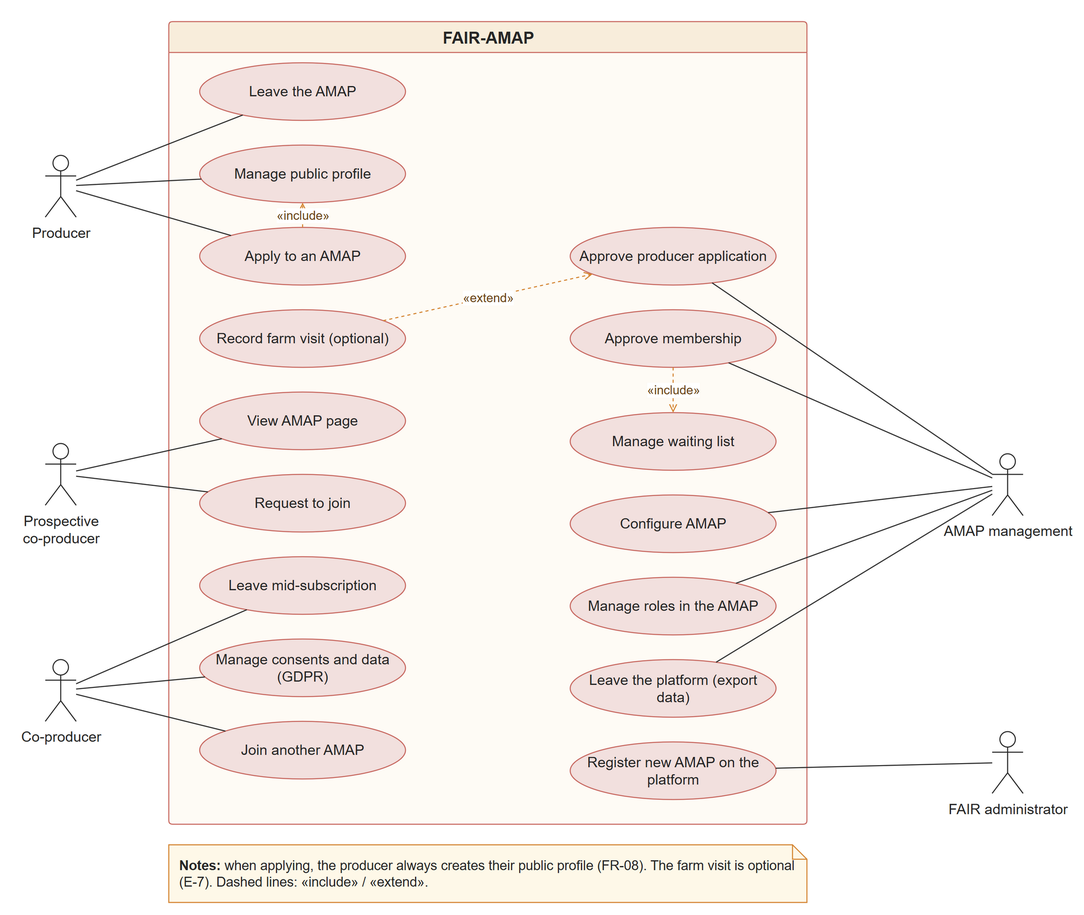
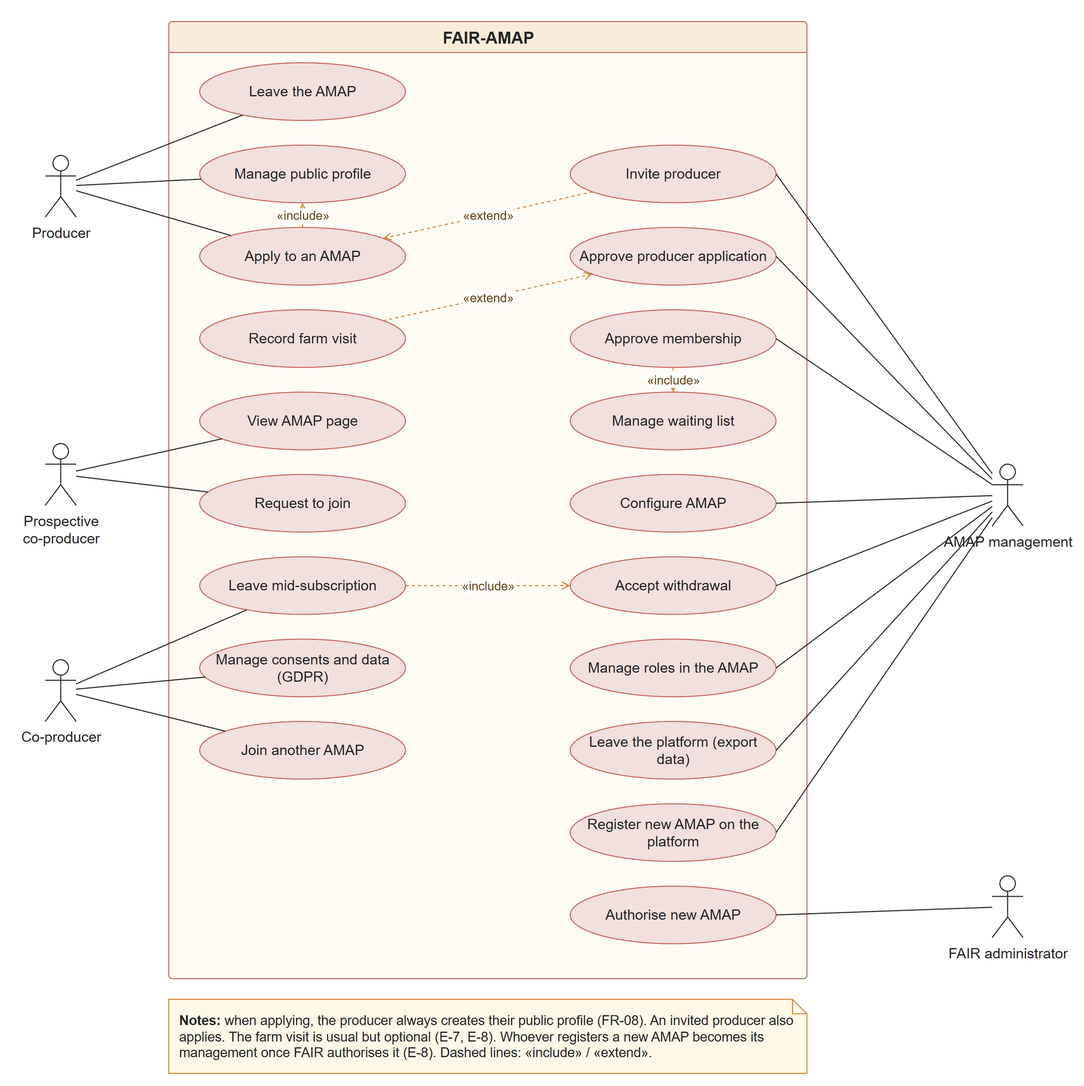
Update design and implementation constraints documentation in English and Portuguese; revise payment handling and data protection sections, and clarify AMAP principles compliance. Update status and notes for various constraints based on recent discussions and validations.

diff --git a/docs/srs/2.4_RestricoesConcecaoImplementacaoPT.md b/docs/srs/2.4_RestricoesConcecaoImplementacaoPT.md
@@ -1,6 +1,6 @@
 # 2.4 Restrições de conceção e implementação
 
-**Responsável:** Bruno Alves · **Atualizado em:** 21/10/2026 · **Estado:** rascunho para revisão
+**Responsável:** Bruno Alves · **Atualizado em:** 12/11/2026 · **Estado:** pronto para o relatório
 **Fontes:** [RNF_AtributosQualidadePT.md](../requisitos/RNF_AtributosQualidadePT.md) §7 e códigos de fonte de [requisitos/README.md](../requisitos/README.md)
 
 Esta secção descreve os fatores que **limitam as opções** de quem vai conceber e desenvolver a FAIR-AMAP: regulamentação, princípios das AMAP, modelo de negócio da FAIR, arquitetura e tecnologia. Os requisitos não funcionais que também funcionam como restrição são apenas referidos aqui; o seu detalhe está nas secções 6, 7 e 8.
@@ -10,33 +10,32 @@ Esta secção descreve os fatores que **limitam as opções** de quem vai conceb
 | ID | Restrição | Fonte | Estado |
 |---|---|---|---|
 | NFR-18 | O sistema **não emite faturas**: a faturação está **fora do âmbito**. Cada produtor continua a faturar no seu próprio programa. | E-6 (o cliente confirmou que as faturas estão fora do âmbito); Resultados técnica 2 §5, C4 | Validado |
-| NFR-19 | O sistema **não guarda diretamente o dinheiro** dos coprodutores, porque isso seria prestar um serviço de pagamento sujeito à PSD2. A cobrança é **centralizada**: o coprodutor faz um só pagamento, que é dividido pelos produtores através de um **prestador de pagamentos licenciado**, e cada produtor recebe um resumo de quem pagou e quanto. *(Opção escolhida pelo grupo em 21/10; o modelo atual, em que cada coprodutor paga diretamente a cada produtor, foi posto de parte.)* | Proposta do grupo (a partir de E-5), PSD2, E-1, E-2 §13 | Proposto |
-| — | **Proteção de dados (RGPD).** O tratamento de dados pessoais limita a conceção: autenticação e acesso por papel (NFR-04), comunicações cifradas (NFR-05), alergias e intolerâncias tratadas como **dados de saúde** com consentimento explícito (NFR-06) e nunca impressas em etiquetas (NFR-06), papéis de responsável e subcontratante (NFR-08) e prazos de conservação (NFR-08). | RGPD, D-B §3.1 | Ver secção 7 |
+| NFR-19 | O sistema **não guarda diretamente o dinheiro** dos coprodutores, porque isso seria prestar um serviço de pagamento sujeito à PSD2. A cobrança é **centralizada**: o coprodutor faz um só pagamento, que é dividido pelos produtores através de um **prestador de pagamentos licenciado**, e cada produtor recebe um resumo de quem pagou e quanto. As taxas do meio de pagamento são um **custo do produtor**, incluído nos preços ou descontado de forma transparente no que recebe. | Proposta do grupo (a partir de E-5), E-8 (aceite pelo cliente FAIR), PSD2, E-1, E-2 §13 | Validado |
+| — | **Proteção de dados (RGPD).** O tratamento de dados pessoais limita a conceção: autenticação e acesso por papel (NFR-04), comunicações cifradas (NFR-05), alergias e intolerâncias tratadas como **dados de saúde**, com consentimento explícito e nunca impressas em etiquetas (NFR-06), papéis de responsável e subcontratante e prazos de conservação (NFR-08). | RGPD, D-B §3.1 | Ver secção 7 |
 
 ## 2.4.2 Princípios das AMAP e modelo de negócio
 
 | ID | Restrição | Fonte | Estado |
 |---|---|---|---|
-| NFR-20 | A solução respeita a **Carta de Princípios das AMAP**: é uma ferramenta de organização e **não pode atuar como intermediário comercial** entre produtor e coprodutor. O contacto direto entre ambos mantém-se sempre visível. | D-E (Carta de Princípios: "sem intervenção de agentes intermediários"), D-C §4.1, E-2, E-3 §5, CA; "ferramenta de organização" é interpretação do grupo (técnica 2, resultados §5); princípio 2 do brainstorm de 14/10 | A validar (C6) |
-| NFR-21 | A FAIR cobra uma **fee mínima por produtor** mais uma **percentagem sobre o volume de pagamentos** que passa pela plataforma. Os valores são definidos pela FAIR. | Proposta do grupo (a partir de E-1, E-5) | Proposto |
+| NFR-20 | A solução respeita a **Carta de Princípios das AMAP**: é uma ferramenta de organização e **não pode atuar como intermediário comercial** entre produtor e coprodutor. O contacto direto entre ambos mantém-se sempre visível. | D-E (Carta de Princípios: "sem intervenção de agentes intermediários"), D-C §4.1, E-2, E-3 §5, CA; "ferramenta de organização" é interpretação do grupo (técnica 2, resultados §5); princípio 2 do brainstorm de 14/10 | Proposto (decisão do grupo) |
+| NFR-21 | A FAIR cobra uma **fee mínima por AMAP** mais uma **percentagem sobre o valor das transações** (pagamentos aos produtores) que passam pela plataforma. Os valores são definidos e configurados pela FAIR. Na **experiência piloto em Portugal**, a plataforma é quase gratuita. | E-8; E-1, E-5 | Validado (E-8) |
 
-> **Nota (NFR-21):** o modelo segue a sugestão do cliente FAIR (fee mínima que cresce com o volume, E-1) e a cobrança centralizada (NFR-19, E-5). Só é viável com **escala** (muitas AMAP na mesma plataforma, NFR-22, NFR-13). A análise de concorrência e a Carta de Princípios (CA, D-E) preferiam um modelo sem comissão por transação; o grupo optou pelo volume, porque a FAIR não compra nem revende produtos e o preço continua a ser definido pelo produtor.
+> **Nota (NFR-21):** o modelo só é viável com **escala** (muitas AMAP na mesma plataforma, NFR-22, NFR-13), e é por isso que o piloto em Portugal é quase gratuito e serve para recolher feedback (E-8). A análise de concorrência e a Carta de Princípios (CA, D-E) preferiam um modelo sem comissão por transação; o modelo é aceitável porque a FAIR não compra nem revende produtos e o preço continua a ser definido pelo produtor.
 
-**Decisão de âmbito C6 (resumo):** a proposta inicial era uma **ferramenta de organização** que **não recebe dinheiro nem emite faturas** (NFR-18, 02, 03). Depois da indicação do professor sobre a **cobrança centralizada** (E-5), o grupo optou (21/10) por **centralizar a cobrança através de um prestador licenciado** (NFR-19; NFR-17). O sistema continua a **não emitir faturas** e a **não guardar o dinheiro**. Falta o cliente confirmar e verificar a compatibilidade com a Carta de Princípios (NFR-20). Os requisitos afetados estão marcados "A validar (C6)".
+**Decisão de âmbito C6 (resumo):** a proposta inicial era uma **ferramenta de organização** que **não recebe dinheiro nem emite faturas** (NFR-18). Depois da indicação do professor sobre a **cobrança centralizada** (E-5), o grupo propôs (21/10) **centralizar a cobrança através de um prestador licenciado** (NFR-17, NFR-19), e o cliente FAIR **aceitou** na entrevista de 10/11 (E-8). O sistema continua a **não emitir faturas** e a **não guardar o dinheiro**. A compatibilidade com a Carta de Princípios (NFR-20) não foi discutida com o cliente; o grupo considera-a compatível, porque o sistema só faz chegar o pagamento ao produtor, que é quem define o preço.
 
 ## 2.4.3 Arquitetura e tecnologia
 
 | ID | Restrição | Fonte | Estado |
 |---|---|---|---|
-| NFR-22 | A solução é uma **plataforma partilhada por várias AMAP** (multi-AMAP), com os dados de cada AMAP separados. Uma pessoa pode ser membro de mais do que uma AMAP. | CA, E-2 §1, FR-07 | Proposto |
-| NFR-23 *(novo)* | A solução tem de ser **mantida pela FAIR** ao longo do tempo (correções, atualizações de segurança e evolução). O cliente referiu que os softwares feitos por amadores para CSA deixam de ser mantidos. | E-1 (sessão de 23/09) | Proposto |
-| NFR-24 *(novo)* | As diferenças **entre AMAP e entre produtores da mesma AMAP** (duração do ciclo, datas e modo de entrega, prazos de alteração, momento do pagamento, regras de ausência) são tratadas por **configuração**, sem desenvolvimento específico para cada AMAP ou produtor. | Princípio 1 do brainstorm de 14/10, E-2 §1, §11, E-3 §2–§4, §8 | Proposto |
+| NFR-22 | A solução é uma **plataforma partilhada por várias AMAP** (multi-AMAP), com os dados de cada AMAP separados. Uma pessoa, incluindo um produtor, pode ser membro de mais do que uma AMAP. | CA, E-2 §1, E-8, FR-07 | Validado (E-8) |
+| NFR-23 | A solução tem de ser **mantida pela FAIR** ao longo do tempo (correções, atualizações de segurança e evolução). O cliente referiu que os softwares feitos por amadores para CSA deixam de ser mantidos. | E-1 (sessão de 23/09) | Proposto |
+| NFR-24 | As diferenças **entre AMAP e entre produtores da mesma AMAP** (duração do ciclo, datas e modo de entrega, prazos de alteração, momento do pagamento, regras de ausência, capacidade, regras de desistência) são tratadas por **configuração**, sem desenvolvimento específico para cada AMAP ou produtor. | Princípio 1 do brainstorm de 14/10, E-2 §1, §11, E-3 §2–§4, §8, E-8 ("cada AMAP funciona com as suas próprias regras") | Validado (E-8) |
 | — | **Aplicação web** adaptável a telemóvel e computador, **sem instalação obrigatória**; pode ser instalada no ecrã inicial como **PWA**, sem passar pelas lojas de aplicações, e a própria aplicação explica como (NFR-01). Notificações **push** além do email (NFR-15). | E-3, decisão do grupo de 21/10 | Ver secções 6 e 7 |
-| — | **Língua:** interface em **português europeu**, preparada para outras línguas; euros com IVA, datas dd/mm/aaaa, fuso horário de Portugal (NFR-13, 02). | CA, D-A | Ver secção 8 |
-| — | **Interfaces obrigatórias:** notificações por **email** (NFR-15) e **push** no telemóvel (NFR-15), e exportação para folha de cálculo (NFR-16), para quem hoje usa Excel. | D-A, E-2 §2, decisão do grupo de 21/10 | Ver secção 6 |
+| — | **Língua:** interface em **português europeu**, preparada para outras línguas; euros com IVA, datas dd/mm/aaaa, fuso horário de Portugal (NFR-13, NFR-14). | CA, D-A | Ver secção 8 |
+| — | **Interfaces obrigatórias:** notificações por **email** e **push** no telemóvel (NFR-15), e exportação para folha de cálculo (NFR-16), para quem hoje usa Excel. | D-A, E-2 §2, decisão do grupo de 21/10 | Ver secção 6 |
 
 ## 2.4.4 Pontos em aberto
-- **C6:** o cliente confirma a cobrança centralizada através de um prestador licenciado? É compatível com a Carta de Princípios das AMAP? (afeta NFR-18, 02, 03, NFR-17 e RF05)
-- **E-5** foi ouvido numa conversa do professor com outro grupo e não foi gravado: confirmar diretamente com o professor.
-- **DV-25:** confirmar com a FAIR os valores da fee mínima e da percentagem (afeta NFR-21).
-- **NFR-23** e **NFR-24** são novos (21/10) e já estão na tabela de [RNF](../requisitos/RNF_AtributosQualidadePT.md) §7; falta o grupo concordar.
+- **Valores da fee (DV-25):** o modelo está validado, mas a FAIR não indicou a fee mínima nem a percentagem. O sistema permite à FAIR configurá-los (FR-34).
+- **Carta de Princípios (NFR-20):** a compatibilidade com a cobrança centralizada continua a ser uma decisão do grupo (ver C6 acima).
+- **NFR-23** baseia-se só na sessão de 23/09 e não voltou a ser discutido com o cliente.

diff --git a/docs/srs/2.4_RestricoesConcecaoImplementacaoEN.md b/docs/srs/2.4_RestricoesConcecaoImplementacaoEN.md
@@ -1,6 +1,6 @@
 # 2.4 Design and implementation constraints
 
-**Owner:** Bruno Alves · **Updated on:** 21/10/2026 · **Status:** draft for review
+**Owner:** Bruno Alves · **Updated on:** 12/11/2026 · **Status:** ready for the report
 **Sources:** [RNF_AtributosQualidadeEN.md](../requisitos/RNF_AtributosQualidadeEN.md) §7 and source codes in [requisitos/README.md](../requisitos/README.md)
 
 This section describes the factors that **limit the options** of whoever designs and develops FAIR-AMAP: regulation, AMAP principles, FAIR's business model, architecture and technology. Non-functional requirements that also act as constraints are only referenced here; their detail is in sections 6, 7 and 8.
@@ -10,33 +10,32 @@ This section describes the factors that **limit the options** of whoever designs
 | ID | Constraint | Source | Status |
 |---|---|---|---|
 | NFR-18 | The system **does not issue invoices**: invoicing is **out of scope**. Each producer keeps invoicing in their own software. | E-6 (the client confirmed invoices are out of scope); Technique 2 results §5, C4 | Validated |
-| NFR-19 | The system **does not hold co-producers' money directly**, because that would be a payment service subject to PSD2. Collection is **centralised**: the co-producer makes a single payment, which is split among producers through a **licensed payment provider**, and each producer receives a summary of who paid and how much. *(Option chosen by the group on 21/10; the current model, where each co-producer pays each producer directly, was set aside.)* | Group proposal (based on E-5), PSD2, E-1, E-2 §13 | Proposed |
-| — | **Data protection (GDPR).** Processing personal data constrains the design: authentication and role-based access (NFR-04), encrypted communications (NFR-05), allergies and intolerances treated as **health data** with explicit consent (NFR-06) and never printed on labels (NFR-06), controller and processor roles (NFR-08) and retention periods (NFR-08). | GDPR, D-B §3.1 | See section 7 |
+| NFR-19 | The system **does not hold co-producers' money directly**, because that would be a payment service subject to PSD2. Collection is **centralised**: the co-producer makes a single payment, which is split among producers through a **licensed payment provider**, and each producer receives a summary of who paid and how much. Payment method fees are a **producer cost**, reflected in their prices or deducted transparently from what they receive. | Group proposal (based on E-5), E-8 (accepted by the FAIR client), PSD2, E-1, E-2 §13 | Validated |
+| — | **Data protection (GDPR).** Processing personal data constrains the design: authentication and role-based access (NFR-04), encrypted communications (NFR-05), allergies and intolerances treated as **health data** with explicit consent and never printed on labels (NFR-06), controller and processor roles and retention periods (NFR-08). | GDPR, D-B §3.1 | See section 7 |
 
 ## 2.4.2 AMAP principles and business model
 
 | ID | Constraint | Source | Status |
 |---|---|---|---|
-| NFR-20 | The solution respects the **AMAP Charter of Principles**: it is an organisation tool and **must not act as a commercial intermediary** between producer and co-producer. Direct contact between them always remains visible. | D-E (Charter of Principles: "without intervention of intermediary agents"), D-C §4.1, E-2, E-3 §5, CA; "organisation tool" is the group's interpretation (technique 2, results §5); principle 2 of the 14/10 brainstorm | To validate (C6) |
-| NFR-21 | FAIR charges a **minimum fee per producer** plus a **percentage of the payment volume** that goes through the platform. The amounts are set by FAIR. | Group proposal (based on E-1, E-5) | Proposed |
+| NFR-20 | The solution respects the **AMAP Charter of Principles**: it is an organisation tool and **must not act as a commercial intermediary** between producer and co-producer. Direct contact between them always remains visible. | D-E (Charter of Principles: "without intervention of intermediary agents"), D-C §4.1, E-2, E-3 §5, CA; "organisation tool" is the group's interpretation (technique 2, results §5); principle 2 of the 14/10 brainstorm | Proposed (group decision) |
+| NFR-21 | FAIR charges a **minimum fee per AMAP** plus a **percentage of the value of the transactions** (payments to producers) that go through the platform. The amounts are set and configured by FAIR. During the **pilot in Portugal**, the platform is almost free. | E-8; E-1, E-5 | Validated (E-8) |
 
-> **Note (NFR-21):** the model follows the FAIR client's suggestion (minimum fee that grows with volume, E-1) and centralised collection (NFR-19, E-5). It is only viable at **scale** (many AMAPs on the same platform, NFR-22, NFR-13). The competitor analysis and the Charter of Principles (CA, D-E) favoured a model without a per-transaction commission; the group chose volume because FAIR neither buys nor resells products and the price is still set by the producer.
+> **Note (NFR-21):** the model is only viable at **scale** (many AMAPs on the same platform, NFR-22, NFR-13), which is why the pilot in Portugal is almost free and aims to collect feedback (E-8). The competitor analysis and the Charter of Principles (CA, D-E) favoured a model without a per-transaction commission; this is acceptable because FAIR neither buys nor resells products and the price is still set by the producer.
 
-**Scope decision C6 (summary):** the initial proposal was an **organisation tool** that **neither handles money nor issues invoices** (NFR-18, 02, 03). After the lecturer's remark about **centralised collection** (E-5), the group chose (21/10) to **centralise collection through a licensed provider** (NFR-19; NFR-17). The system still **does not issue invoices** and **does not hold the money**. The client still has to confirm, and compatibility with the Charter of Principles (NFR-20) must be checked. Affected requirements are marked "To validate (C6)".
+**Scope decision C6 (summary):** the initial proposal was an **organisation tool** that **neither handles money nor issues invoices** (NFR-18). After the lecturer's remark about **centralised collection** (E-5), the group proposed (21/10) to **centralise collection through a licensed provider** (NFR-17, NFR-19), and the FAIR client **accepted** it in the interview of 10/11 (E-8). The system still **does not issue invoices** and **does not hold the money**. Compatibility with the Charter of Principles (NFR-20) was not discussed with the client; the group considers it compatible because the system only passes the payment on to the producer, who sets the price.
 
 ## 2.4.3 Architecture and technology
 
 | ID | Constraint | Source | Status |
 |---|---|---|---|
-| NFR-22 | The solution is a **platform shared by several AMAPs** (multi-AMAP), with each AMAP's data kept separate. A person may be a member of more than one AMAP. | CA, E-2 §1, FR-07 | Proposed |
-| NFR-23 *(new)* | The solution must be **maintained by FAIR** over time (fixes, security updates and evolution). The client mentioned that software built by amateurs for CSAs stops being maintained. | E-1 (23/09 session) | Proposed |
-| NFR-24 *(new)* | Differences **between AMAPs and between producers in the same AMAP** (cycle length, delivery dates and mode, change deadlines, payment timing, absence rules) are handled through **configuration**, without specific development for each AMAP or producer. | Principle 1 of the 14/10 brainstorm, E-2 §1, §11, E-3 §2–§4, §8 | Proposed |
+| NFR-22 | The solution is a **platform shared by several AMAPs** (multi-AMAP), with each AMAP's data kept separate. A person, including a producer, may be a member of more than one AMAP. | CA, E-2 §1, E-8, FR-07 | Validated (E-8) |
+| NFR-23 | The solution must be **maintained by FAIR** over time (fixes, security updates and evolution). The client mentioned that software built by amateurs for CSAs stops being maintained. | E-1 (23/09 session) | Proposed |
+| NFR-24 | Differences **between AMAPs and between producers in the same AMAP** (cycle length, delivery dates and mode, change deadlines, payment timing, absence rules, capacity, withdrawal rules) are handled through **configuration**, without specific development for each AMAP or producer. | Principle 1 of the 14/10 brainstorm, E-2 §1, §11, E-3 §2–§4, §8, E-8 ("each AMAP works with its own rules") | Validated (E-8) |
 | — | **Web application** for mobile and desktop, **with no mandatory installation**; it can be installed on the home screen as a **PWA**, without going through app stores, and the app itself explains how (NFR-01). **Push** notifications in addition to email (NFR-15). | E-3, group decision of 21/10 | See sections 6 and 7 |
-| — | **Language:** interface in **European Portuguese**, ready for other languages; euros with VAT, dd/mm/yyyy dates, Portuguese time zone (NFR-13, 02). | CA, D-A | See section 8 |
-| — | **Mandatory interfaces:** **email** (NFR-15) and phone **push** notifications (NFR-15), and spreadsheet export (NFR-16) for those who use Excel today. | D-A, E-2 §2, group decision of 21/10 | See section 6 |
+| — | **Language:** interface in **European Portuguese**, ready for other languages; euros with VAT, dd/mm/yyyy dates, Portuguese time zone (NFR-13, NFR-14). | CA, D-A | See section 8 |
+| — | **Mandatory interfaces:** **email** and phone **push** notifications (NFR-15), and spreadsheet export (NFR-16) for those who use Excel today. | D-A, E-2 §2, group decision of 21/10 | See section 6 |
 
 ## 2.4.4 Open points
-- **C6:** does the client confirm centralised collection through a licensed provider? Is it compatible with the AMAP Charter of Principles? (affects NFR-18, 02, 03, NFR-17 and RF05)
-- **E-5** was overheard in a conversation between the lecturer and another group and was not recorded: confirm directly with the lecturer.
-- **DV-25:** confirm with FAIR the minimum fee and percentage amounts (affects NFR-21).
-- **NFR-23** and **NFR-24** are new (21/10) and already in the [NFR](../requisitos/RNF_AtributosQualidadeEN.md) table §7; the group still has to agree.
+- **Fee amounts (DV-25):** the model is validated, but FAIR did not state the minimum fee or the percentage. The system lets FAIR configure them (FR-34).
+- **Charter of Principles (NFR-20):** compatibility with centralised collection remains a group decision (see C6 above).
+- **NFR-23** is based only on the 23/09 session and was not discussed again with the client.

diff --git a/docs/requisitos/RNF_AtributosQualidadePT.md b/docs/requisitos/RNF_AtributosQualidadePT.md
@@ -52,9 +52,9 @@ Os requisitos não funcionais têm de ser **específicos e verificáveis** (temp
 | NFR-19 | O sistema não deve guardar diretamente o dinheiro dos coprodutores (PSD2). A cobrança é centralizada: o coprodutor faz um só pagamento, dividido pelos produtores através de um prestador de pagamentos licenciado (opção do grupo em 21/10, aceite pela FAIR em 10/11). | M | Proposta do grupo (a partir de E-5), E-8, PSD2, E-1, E-2 §13 | Validado (E-8) |
 | NFR-20 | A solução deve respeitar a Carta de Princípios das AMAP: não pode atuar como intermediário comercial entre produtor e coprodutor. | M | D-E (Carta de Princípios), D-C §4.1, E-2, E-3 §5, CA; interpretação do grupo (técnica 2, resultados §5) | A validar (C6) |
 | NFR-21 | A FAIR cobra uma fee mínima por AMAP mais uma percentagem sobre o valor das transações que passam pela plataforma; os valores são definidos pela FAIR e, na experiência piloto em Portugal, a plataforma é quase gratuita. | S | E-8; proposta do grupo (a partir de E-1 §4, E-5); CA e D-E preferiam sem comissão | Validado (E-8) |
-| NFR-22 | A solução deve ser uma plataforma partilhada por várias AMAP (multi-AMAP), com os dados de cada AMAP separados. | M | CA ("instância comum para as AMAP portuguesas"), E-2 §1 | Proposto |
+| NFR-22 | A solução deve ser uma plataforma partilhada por várias AMAP (multi-AMAP), com os dados de cada AMAP separados. | M | CA ("instância comum para as AMAP portuguesas"), E-2 §1, E-8 | Validado (E-8) |
 | NFR-23 | A solução deve ser mantida pela FAIR ao longo do tempo (correções, atualizações de segurança e evolução). | S | E-1 (softwares de amadores deixam de ser mantidos) | Proposto |
-| NFR-24 | As diferenças entre AMAP e entre produtores da mesma AMAP (duração do ciclo, datas e modo de entrega, prazos de alteração, momento do pagamento, regras de ausência) devem ser tratadas por configuração, sem desenvolvimento específico para cada AMAP ou produtor. | M | Princípio 1 do brainstorm de 14/10, E-2 §1, §11, E-3 §2–§4, §8 | Proposto |
+| NFR-24 | As diferenças entre AMAP e entre produtores da mesma AMAP (duração do ciclo, datas e modo de entrega, prazos de alteração, momento do pagamento, regras de ausência) devem ser tratadas por configuração, sem desenvolvimento específico para cada AMAP ou produtor. | M | Princípio 1 do brainstorm de 14/10, E-2 §1, §11, E-3 §2–§4, §8, E-8 | Validado (E-8) |
 
 ## Correspondência com a versão anterior
 Na revisão de 28/10, os 32 requisitos anteriores foram reduzidos a 22, juntando os que medem a mesma coisa (indicação do professor de reduzir o detalhe).

diff --git a/docs/requisitos/RNF_AtributosQualidadeEN.md b/docs/requisitos/RNF_AtributosQualidadeEN.md
@@ -52,9 +52,9 @@ Non-functional requirements must be **specific and verifiable** (SRS template). 
 | NFR-19 | The system shall not hold co-producers' money directly (PSD2). Collection is centralised: the co-producer makes a single payment, split among producers through a licensed payment provider (group option on 21/10, accepted by FAIR on 10/11). | M | Group proposal (based on E-5), E-8, PSD2, E-1, E-2 §13 | Validated (E-8) |
 | NFR-20 | The solution shall respect the AMAP Charter of Principles: it must not act as a commercial intermediary between producer and co-producer. | M | D-E (Charter of Principles), D-C §4.1, E-2, E-3 §5, CA; group interpretation (technique 2, results §5) | To validate (C6) |
 | NFR-21 | FAIR charges a minimum fee per AMAP plus a percentage of the value of the transactions that go through the platform; the amounts are set by FAIR and, during the pilot in Portugal, the platform is almost free. | S | E-8; group proposal (based on E-1 §4, E-5); CA and D-E favoured no commission | Validated (E-8) |
-| NFR-22 | The solution shall be a platform shared by several AMAPs (multi-AMAP), with each AMAP's data kept separate. | M | CA ("one shared instance for Portuguese AMAPs"), E-2 §1 | Proposed |
+| NFR-22 | The solution shall be a platform shared by several AMAPs (multi-AMAP), with each AMAP's data kept separate. | M | CA ("one shared instance for Portuguese AMAPs"), E-2 §1, E-8 | Validated (E-8) |
 | NFR-23 | The solution shall be maintained by FAIR over time (fixes, security updates and evolution). | S | E-1 (software built by amateurs stops being maintained) | Proposed |
-| NFR-24 | Differences between AMAPs and between producers in the same AMAP (cycle length, delivery dates and mode, change deadlines, payment timing, absence rules) shall be handled through configuration, without specific development for each AMAP or producer. | M | Principle 1 of the 14/10 brainstorm, E-2 §1, §11, E-3 §2–§4, §8 | Proposed |
+| NFR-24 | Differences between AMAPs and between producers in the same AMAP (cycle length, delivery dates and mode, change deadlines, payment timing, absence rules) shall be handled through configuration, without specific development for each AMAP or producer. | M | Principle 1 of the 14/10 brainstorm, E-2 §1, §11, E-3 §2–§4, §8, E-8 | Validated (E-8) |
 
 ## Mapping to the previous version
 In the 28/10 review, the 32 previous requirements were reduced to 22 by combining those that measure the same thing (lecturer's advice to reduce detail).
